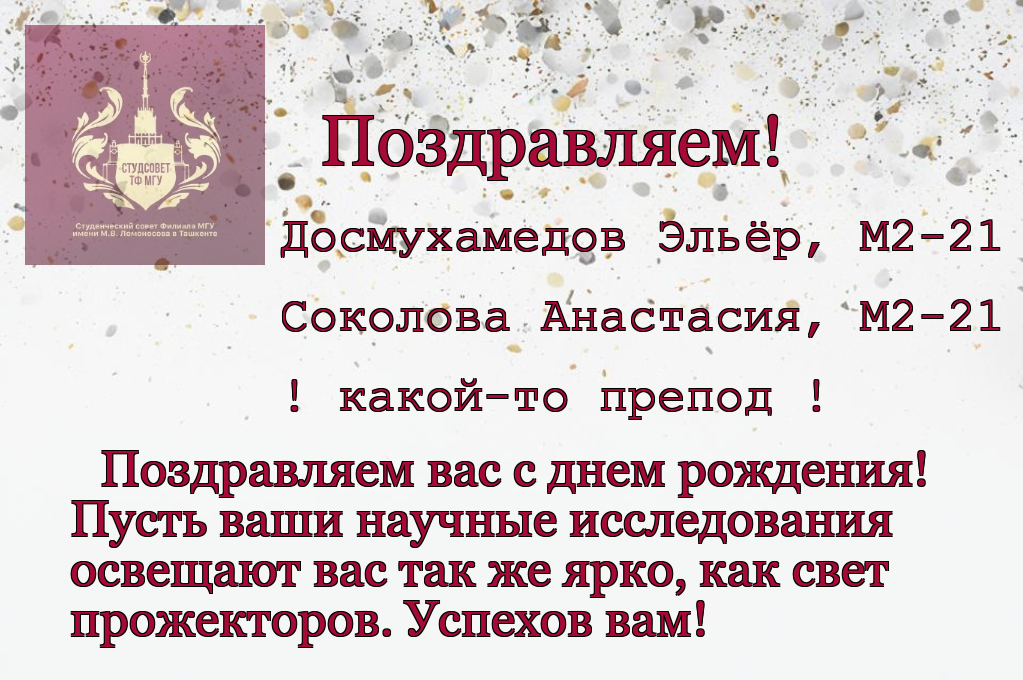
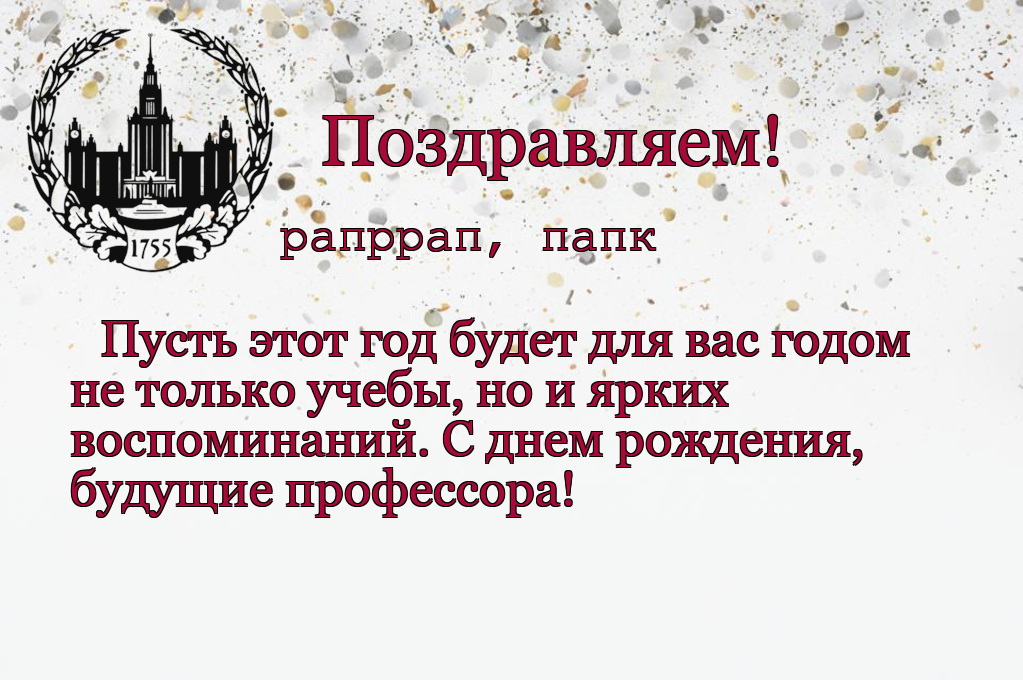
xtr

Changed region(s): [[0.0606, 0.4324, 0.9697, 0.9574], [0.0, 0.0309, 0.9697, 0.4015]]

diff --git a/utils.py b/utils.py
@@ -21,11 +21,10 @@ async def delete_message(chat_id, message_id, delay_seconds, app):
 
 def get_contrast_color(background_color):
     brightness = sum(background_color) / 3
-    return "#E8CB52" if brightness < 128 else "#A60B38"
+    return 1 if brightness < 128 else 2
 
-def get_contrast_logo(background_color):
-    brightness = sum(background_color) / 3
-    return config.LOGO_WHITE if brightness < 128 else config.LOGO_BLACK
+def get_contrast_logo(color_index):
+    return config.LOGO_WHITE if color_index == 1 else config.LOGO_BLACK
 
 async def make_image():
     im = Image.open(await random_pic()) 
@@ -33,12 +32,14 @@ async def make_image():
 
     # Цвет текста на основе контраста
     background_color = im.getpixel((100, 250))
-    text_color = get_contrast_color(background_color)
+    color_index = get_contrast_color(background_color)
+    if (color_index == 1): text_color = "#E8CB52"
+    else: text_color = "#A60B38"
 
     # Вотермарка
     watermark = Image.open(get_contrast_logo(background_color)).convert("RGBA")
-    mask = Image.new("L", watermark.size, 128)
-    im.paste(watermark, (25, 25), mask)
+    watermark = watermark.resize((250, 250))
+    im.paste(watermark, (25, 25), watermark)
 
     # Текст
     font1 = ImageFont.truetype("georgia.ttf", size=70)
